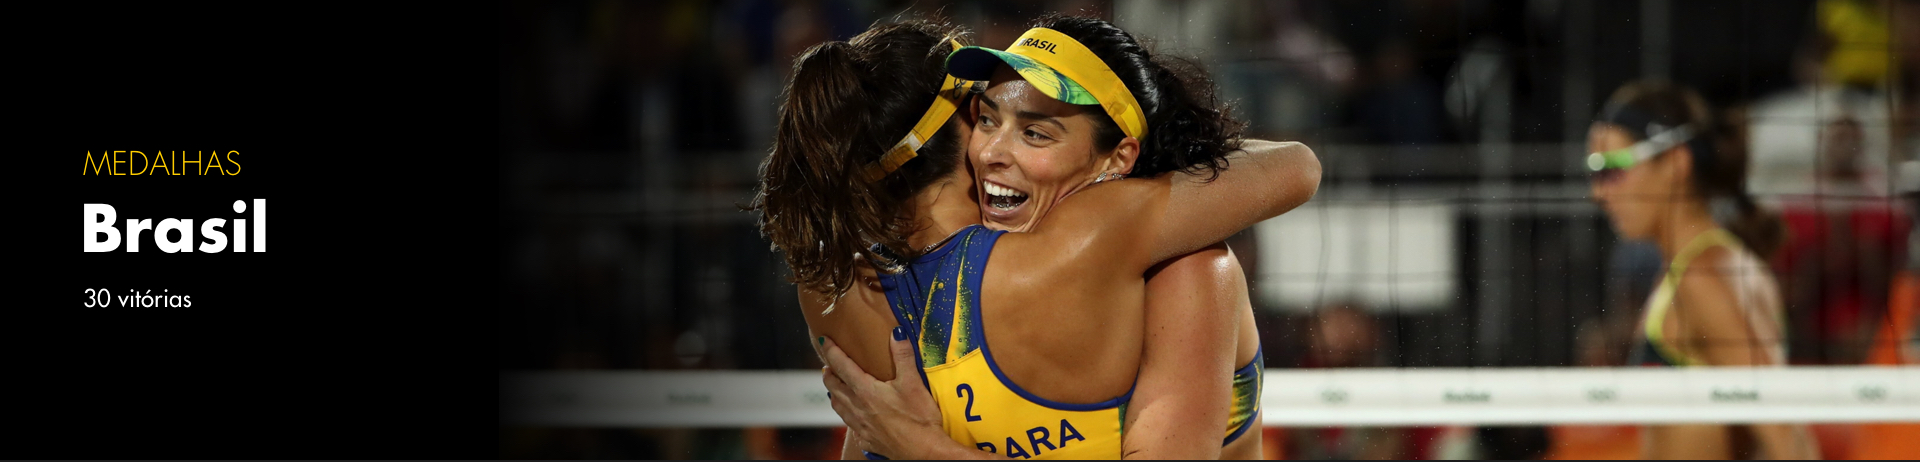
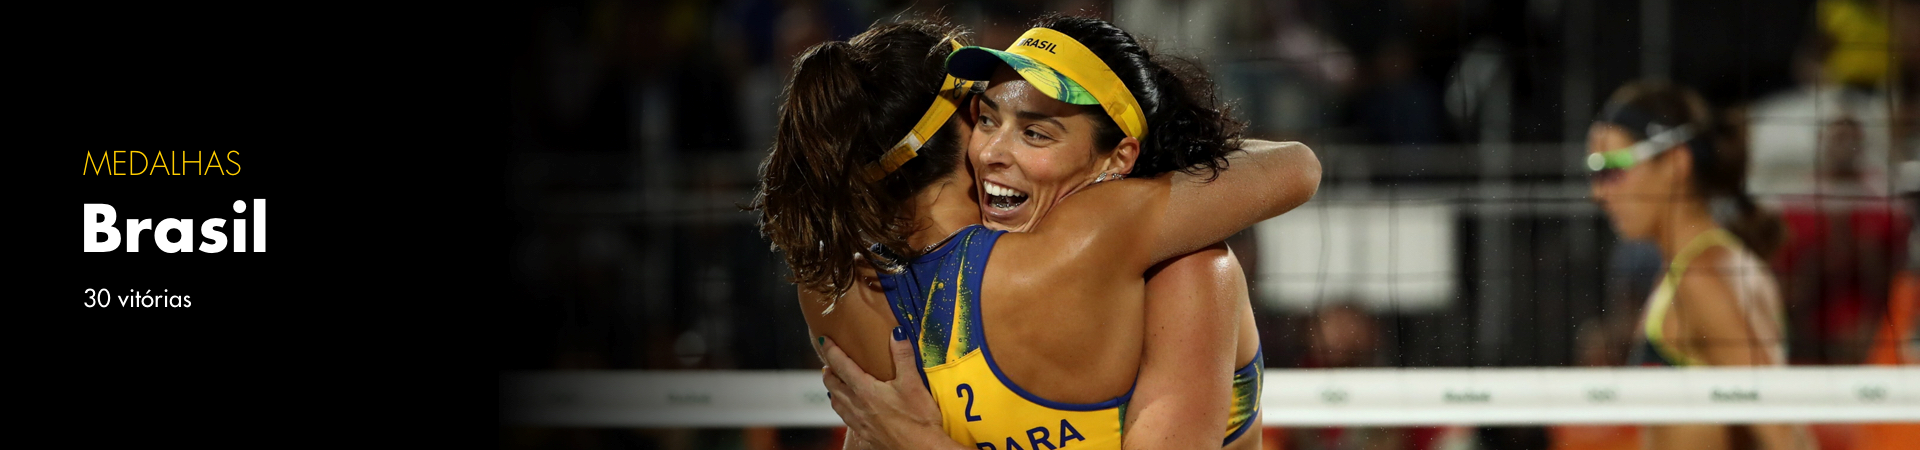
Inserção layout destaque main

diff --git a/poc/poc_claro_now/src/pages/Destaque-main/destaque.js b/poc/poc_claro_now/src/pages/Destaque-main/destaque.js
@@ -1,0 +1,39 @@
+import React from "react";
+import "./destaque.css";
+import NavBarHome from "../../components/NavBar/navBar";
+import destaqueAV from "../../assets/img/Imagem-destaque-main-lp.png";
+import TelaDestaque from "../../assets/img/home-medalhas-vivo-1.png";
+import TlDestTwo from "../../assets/img/home-medalhas-vivo-2.png";
+import TlDestThree from "../../assets/img/home-medalhas-vivo-3.png";
+
+const DestaqueMain = () => {
+  return (
+    <main className="container-body">
+      <NavBarHome to='/home'></NavBarHome>
+      <section className="container-banner-dt">
+        <section className="destaque-container">
+          <section className="container-title">
+            <h5 className="titleDest-main">
+              <font size="4" face="FturaStd ">
+                AO VIVO
+              </font>
+            </h5>
+          </section>
+          <section className="sectionAoVivoDest">
+            <button className="btnAoVivo">
+              <img src={TelaDestaque} className="imgbtnVivo"></img>
+            </button>
+            <button className="btnAoVivo">
+              <img src={TlDestTwo} className="imgbtnVivo"></img>
+            </button>
+            <button className="btnAoVivo">
+              <img src={TlDestThree} className="imgbtnVivo"></img>
+            </button>
+          </section>
+        </section>
+      </section>
+    </main>
+  );
+};
+
+export default DestaqueMain;

diff --git a/poc/poc_claro_now/src/pages/Destaque-main/destaque.css b/poc/poc_claro_now/src/pages/Destaque-main/destaque.css
@@ -1,0 +1,62 @@
+.container-body{
+  background: #1B1B1B;
+  width: 100%;
+  height: 100rem;  
+}
+.container-banner-dt{
+  background: #1B1B1B ;
+ background: url(../../assets/img/Imagem-destaque-main-lp.png) no-repeat;  
+ background-size: 100% 55% ;
+  height: 100vw;
+  display: grid;
+  align-items: center;
+}
+.container-title{
+  height: 3vw;
+}
+
+/* .banner-destaque{
+  width: 100%;
+  height: 100%;
+} */
+
+
+@font-face {
+  font-family: FuturaStd;
+  font-style: normal;
+  font-weight: normal;
+  src: url(../../assets/Fontes/FuturaStd-CondensedBold.otf);
+}
+.titleDest-main{
+  margin: 1rem 0 0 4rem; 
+  color: #E0C54D;
+  font-weight: bolder;
+}
+
+.destaque-container{
+  height: 40%;
+}
+
+.sectionAoVivoDest{
+  background: none;
+  width: 100%;
+  height: 40%;
+  color: antiquewhite;
+  grid-row-start: 2;
+  margin-left: 3rem;
+}
+
+.btnAoVivo{
+  width: 30vw;
+  height: 12vw;
+  background: none;
+  border: none;
+}
+.btnAoVivo:focus{
+  outline: none;
+}
+
+.imgbtnVivo{ 
+  width: 29vw;
+  height: 12vw;
+}

diff --git a/poc/poc_claro_now/src/Routes.js b/poc/poc_claro_now/src/Routes.js
@@ -3,6 +3,7 @@ import { BrowserRouter, Switch, Route, /* Redirect */} from 'react-router-dom';
 import Modalidade from './pages/Modalidade/modalidade';
 import Medalhas from './pages/Medalhas/medalhas';
 import ConteudoPrincipal from './pages/ConteudoPrincipal/conteudoPrincipal';
+import DestaqueMain from './pages/Destaque-main/destaque';
 
 const Home = lazy(() => import('./pages/Home/home'));
 const VideoShowCase = lazy(() => import('./pages/videoshowcase'));
@@ -16,6 +17,7 @@ const Routes = () =>(
         <Route exact path='/' component={ConteudoPrincipal} />
         <Route exact path='/home' component={Home} />
         <Route exact path='/modalidades' component={Modalidade} />
+        <Route exact path='/destaque-main' component={DestaqueMain} />
         <Route exact path='/medalhas' component={Medalhas} />
         <Route exact path='/video' component={VideoShowCase} />
         <Route exact path='/aovivo' component={FixedShowCase} />

diff --git a/poc/poc_claro_now/src/pages/ConteudoPrincipal/conteudoPrincipal.js b/poc/poc_claro_now/src/pages/ConteudoPrincipal/conteudoPrincipal.js
@@ -10,14 +10,13 @@ import JgBasqFour from "../../assets/img/modalidade-destaque-4.png";
 import JgBasqFive from "../../assets/img/modalidade-destaque-5.png";
 
 const ConteudoPrincipal = () => {
-
  
   return (
     <main className='mainCp'>
       <NavBarCP></NavBarCP>
       <section>
         <section className="container-banner-cp">
-          <Link to='/home'>
+          <Link to='/destaque-main'>
           <img src={BannerCP} className="BCPImg"></img>
           </Link>          
         </section>

diff --git a/poc/poc_claro_now/src/pages/Home/home.css b/poc/poc_claro_now/src/pages/Home/home.css
@@ -116,6 +116,11 @@
   background-size: 8rem ;
 }
 
+.buttonTroca:hover {
+  background: url(../../assets/img/Brasil.png) no-repeat;
+  background-size: 8rem ;
+}
+
 .btnContMod{
   width: 82rem;
   display: grid;

diff --git a/poc/poc_claro_now/src/pages/ConteudoPrincipal/navBarCP.css b/poc/poc_claro_now/src/pages/ConteudoPrincipal/navBarCP.css
@@ -4,7 +4,6 @@
   color: #FBF5E7;
   align-items: center;
   width: 100%;
-
 }
 
 .navBar-cp{
